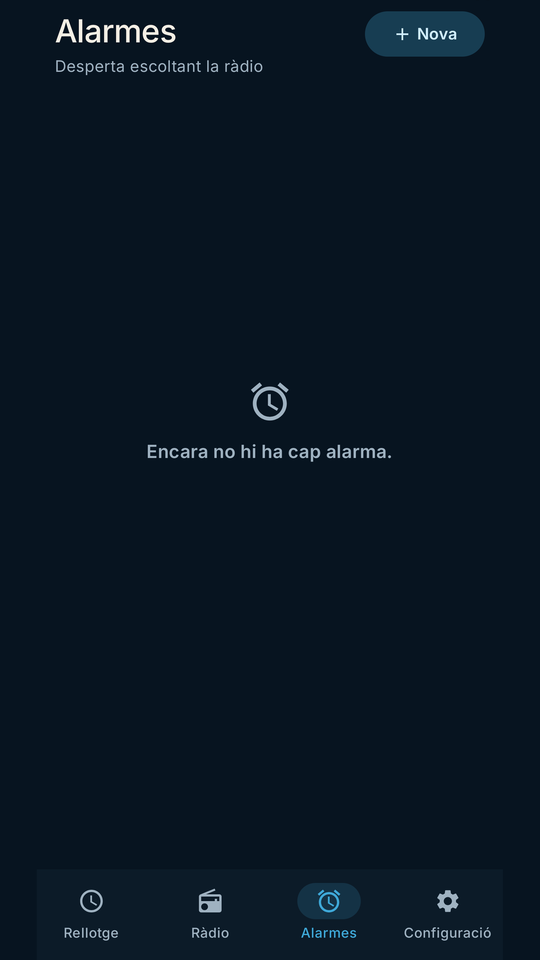
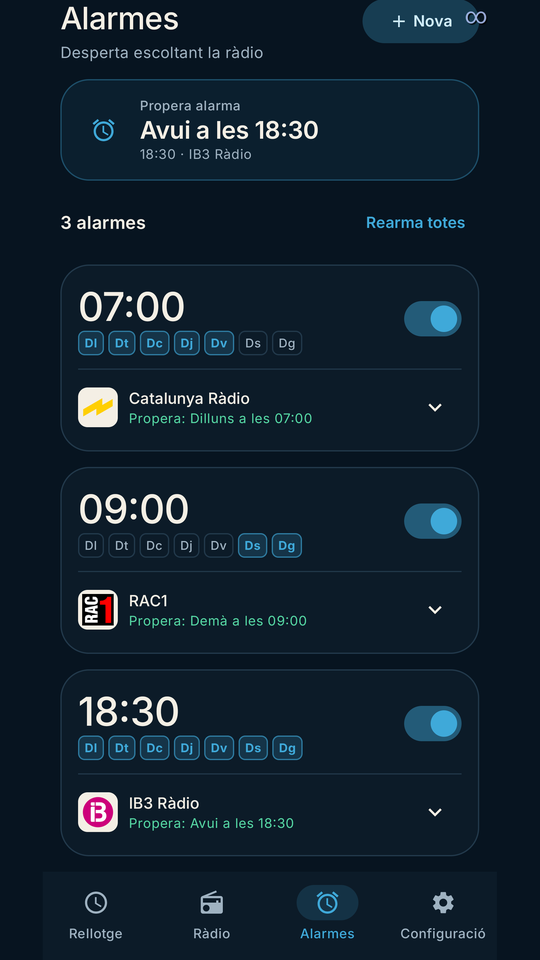
Mostra la ràdio en reproducció i les alarmes programades

diff --git a/docs/google-play.md b/docs/google-play.md
@@ -6,13 +6,14 @@ Els fitxers per pujar a Play Console es guarden a `play-store-assets/2.0.1/`, un
   amb menys marge que la icona adaptativa del mòbil.
 - `feature_graphic_1024x500.png`: gràfic de funcions nou, 1024 × 500, PNG RGB.
 - `phone/01_rellotge.png`, `02_radio.png`, `03_alarmes.png` i
-  `04_configuracio.png`: captures reals de Cronos Nightly 2.0.1 en un Galaxy
+  `04_reproduccio.png`: captures reals de Cronos Nightly 2.0.1 en un Galaxy
   S21 Ultra. S'han retallat els marges del sistema i s'han ajustat a 1440 × 2560
   sense deformar la interfície.
 
 Per generar de nou la icona i el gràfic, executa `python tools/prepare_icons.py`.
-Per fer captures noves amb Cronos Nightly, executa `python tools/capture_store_screens.py`
-amb el telèfon connectat i desbloquejat.
+Per fer captures bàsiques amb Cronos Nightly, executa `python tools/capture_store_screens.py`
+amb el telèfon connectat i desbloquejat. Per a la fitxa, mostra alarmes ja
+programades i el reproductor amb una emissora sonant.
 Els recursos antics són a `play-store-assets/historics/`; no els facis servir
 com a captures de la versió actual per a tauleta, Chromebook o XR.
 
@@ -25,7 +26,7 @@ com a captures de la versió actual per a tauleta, Chromebook o XR.
 3. A **Gràfics**, substitueix la **icona de l'aplicació** per `icon_512.png`
    i el **gràfic de funcions** per `feature_graphic_1024x500.png`.
 4. A **Captures de telèfon**, elimina les antigues i afegeix les quatre
-   imatges de `phone/`: Rellotge, Ràdio, Alarmes i Configuració. Ordena-les
+   imatges de `phone/`: Rellotge, Ràdio, Reproducció i Alarmes. Ordena-les
    arrossegant-les i posa un text alternatiu breu a cada captura.
 5. Revisa també les imatges de tauleta, Chromebook i XR, si en tens. No
    reutilitzis captures de telèfon com si fossin d'altres dispositius.

diff --git a/README.md b/README.md
@@ -13,8 +13,8 @@ Pots triar entre tres ginys per veure l’hora a la pantalla d’inici, escoltar
 <p>
   <img src="docs/captures/rellotge.png" alt="Rellotge de Cronos amb l’hora escrita en català" width="170">
   <img src="docs/captures/radio.png" alt="Graella d’emissores de ràdio" width="170">
-  <img src="docs/captures/alarmes.png" alt="Pantalla per programar alarmes" width="170">
-  <img src="docs/captures/configuracio.png" alt="Configuració del rellotge i de la ràdio" width="170">
+  <img src="docs/captures/reproduccio.png" alt="Reproductor de Cronos amb Catalunya Ràdio sonant" width="170">
+  <img src="docs/captures/alarmes.png" alt="Llista d’alarmes programades amb ràdio" width="170">
 </p>
 
 Cronos no té anuncis, comptes ni analítica. Consulta la [política de privadesa](https://filldemaia.github.io/cronos/privacy.html).
